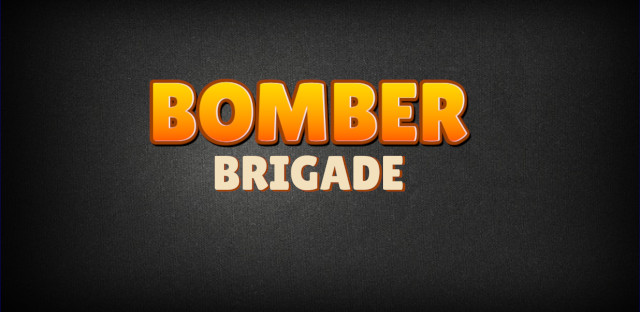
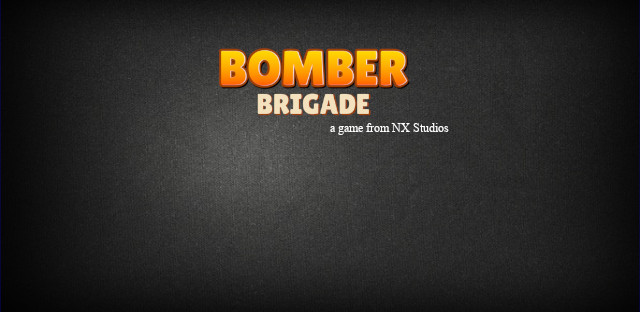
Content

Changed region(s): [[0.2188, 0.1442, 0.75, 0.6346]]

diff --git a/img/email.html b/img/email.html
@@ -1,0 +1,212 @@
+<div dir="ltr">
+  <table id="gmail-mainStructure" style="background-color: #efefef; width: 800px; max-width: 800px; margin: 0px auto; outline: #efefef solid 2px;" border="0" width="800" cellspacing="0" cellpadding="0" align="center">
+    <tbody>
+      <tr>
+        <td style="background: url('BomberBrigade.jpg') 25% 0% / cover no-repeat " align="center" valign="top" width="100%" height="100%">
+          <table style="margin: 0px auto;" border="0" width="100%" cellspacing="0" cellpadding="0" align="center">
+            <tbody>
+              <tr>
+                <td align="center" valign="top">
+                  <table style="min-width: 600px; margin: 0px auto; width: 600px;" border="0" width="600" cellspacing="0" cellpadding="0" align="center">
+                    <tbody>
+                      <tr>
+                        <td align="center" valign="top">
+                          <table style="table-layout: fixed; margin: 0px auto; width: 560px;" border="0" width="560" cellspacing="0" cellpadding="0" align="center">
+                            <tbody>
+                              <tr>
+                                <td style="height: 80px; font-size: 0px; line-height: 0; border-collapse: collapse;" valign="top" height="80">&nbsp;</td>
+                              </tr>
+                              <tr>
+                                <td valign="top">
+                                  <table style="margin: 0px auto; width: 560px;" border="0" width="100%" cellspacing="0" cellpadding="0" align="center">
+                                    <tbody>
+                                      <tr>
+                                        <td style="font-family: 'Open Sans', Arial, Helvetica, sans-serif; font-size: 36px; color: #ffffff; font-weight: 600; text-align: center; word-break: break-word; line-height: 44px; width: 560px;" align="center">
+                                        </td>
+                                      </tr>
+                                    </tbody>
+                                  </table>
+                                </td>
+                              </tr>
+                              <tr>
+                                <td valign="top">&nbsp;</td>
+                              </tr>
+                              <tr>
+                                <td align="center" valign="top">&nbsp;</td>
+                              </tr>
+                              <tr>
+                                <td style="height: 80px; font-size: 0px; line-height: 0; border-collapse: collapse;" valign="top" height="80">&nbsp;</td>
+                              </tr>
+                            </tbody>
+                          </table>
+                        </td>
+                      </tr>
+                    </tbody>
+                  </table>
+                </td>
+              </tr>
+            </tbody>
+          </table>
+        </td>
+      </tr>
+      <tr>
+        <td style="background-color: #ffffff;" align="center" valign="top">
+          <table style="min-width: 600px; margin: 0px auto; width: 600px;" border="0" width="600" cellspacing="0" cellpadding="0" align="center">
+            <tbody>
+              <tr>
+                <td align="center" valign="top">
+                  <table style="table-layout: fixed; margin: 0px auto; width: 560px;" border="0" width="560" cellspacing="0" cellpadding="0" align="center">
+                    <tbody>
+                      <tr style="text-align: justify;">
+                        <td style="height: 40px; font-size: 0px; line-height: 0; border-collapse: collapse;" valign="top" height="40">&nbsp;</td>
+                      </tr>
+                      <tr style="text-align: justify;">
+                        <td valign="top">
+                          <table style="margin: 0px auto;" border="0" width="100%" cellspacing="0" cellpadding="0" align="center">
+                            <tbody>
+                              <tr>
+                                <td style="height: 20px; font-size: 0px; line-height: 0; border-collapse: collapse;" valign="top" height="20">&nbsp;</td>
+                              </tr>
+                            </tbody>
+                          </table>
+                        </td>
+                      </tr>
+                      <tr>
+                        <td valign="top">
+                          <table style="margin: 0px auto;" border="0" width="100%" cellspacing="0" cellpadding="0" align="center">
+                            <tbody>
+                              <tr>
+                                <td style="font-family: 'Open Sans', Arial, Helvetica, sans-serif; font-size: 14px; color: #7d7d7d; text-align: center; word-break: break-word; line-height: 22px;" align="center">
+                                  <p style="text-align: justify;">Hello Martin, 
+                                    <br>
+                                    <span style="font-size: inherit;">
+                                      <br>It's Navin, founder, and CEO of&nbsp; 
+                                      <a href="http://nxstudios.tk/" target="_blank" rel="noopener">NXStudios</a>. I am an independent game developer and I own a game development studio where we build games for the Android platform. We started formally as a studio in early 2019 but I have been working in the game development industry for over 5 years now.&nbsp;
+                                    </span>
+                                  </p>
+                                  <p style="text-align: justify;">I wanted to introduce to you the game, Bomber Brigade. It is a 3D action and a strategy-based platform game that involves the player tackling enemies while trying to save the platform from getting destroyed by bombs. The platform is divided into tiles. The bombs drop on the tiles and wait for a few seconds before exploding and taking away the tile. The player must push away the bomb from the platform before it explodes all this while trying to strategically destroy or avoid other kinds of enemies that harm the player. The main catch here is that each tile is linked to human life and the player must try his best to save as many lives as he can. From time to time, humans provide him with some special temporary powers in the form of pickup items. 
+                                    <br>
+                                  </p>
+                                  <p style="text-align: justify;">
+                                    <span style="font-size: inherit;">The story goes as follows: The user plays as a Bomb Disposal Officer and tries to save multiple planets across the Universe. A group of evil aliens plans to destroy all planets one by one so that they can take over. The user steps into the shoes of Jack, the Bomb disposal officer, tries to foil their evil plans by climbing up multiple levels to eventually fight the aliens in a final fight.</span>&nbsp; 
+                                    <span style="font-size: inherit;">&nbsp;</span>
+                                  </p>
+                                  <p style="text-align: justify;">I have attached various screenshots and game videos along with the actual game apk, in the mail. I'm sure that you will find it worth your time. I await your response regarding your decision to publish it. 
+                                    <br>
+                                    <a href="https://drive.google.com/drive/folders/1kqYg-Qamky0OJmup7IdiY8OIJ1pXevu1?usp=sharing" rel="noopener" target="_blank">Bomber Brigade Screenshot and Videos</a> 
+                                    <br>
+                                  </p>
+                                  <p style="text-align: justify;">
+                                    <span style="font-size: inherit; text-align: center;">Sincerely,</span> 
+                                    <br>Navin Agarwal 
+                                    <br>+91-8861974219
+                                  </p>
+                                </td>
+                              </tr>
+                              <tr>
+                                <td style="height: 20px; font-size: 0px; line-height: 0; border-collapse: collapse;" valign="top" height="20">&nbsp;</td>
+                              </tr>
+                            </tbody>
+                          </table>
+                        </td>
+                      </tr>
+                      <tr>
+                        <td style="height: 20px; font-size: 0px; line-height: 0; border-collapse: collapse;" valign="top" height="20">&nbsp;</td>
+                      </tr>
+                    </tbody>
+                  </table>
+                </td>
+              </tr>
+            </tbody>
+          </table>
+        </td>
+      </tr>
+      <tr>
+        <td style="background: url('NXStudios.jpg') 25% 0% / cover no-repeat" align="center" valign="top">
+          <table style="min-width: 600px; margin: 0px auto; width: 602px; height: 297px;" border="0" width="600" cellspacing="0" cellpadding="0" align="center">
+            <tbody>
+              <tr>
+                <td style="padding-left: 20px; padding-right: 20px; width: 562px;" align="center" valign="top">
+                  <table style="height: 34px; width: 128px; margin-left: auto; margin-right: auto;" border="0" width="240" cellspacing="0" cellpadding="0" align="center">
+                    <tbody>
+                      <tr>
+                        <td style="font-family: 'Open Sans', Arial, Helvetica, sans-serif; font-size: 14px; color: #ffffff; text-align: center; word-break: break-word; line-height: 22px; width: 128px;" align="center">
+                        </td>
+                      </tr>
+                    </tbody>
+                  </table>
+                </td>
+              </tr>
+                          
+              <br/><br/>
+              <br/>
+              <tr>
+                <td style="width: 602px;" valign="top">
+                  <table border="0" width="100%" cellspacing="0" cellpadding="0" align="center">
+                    <tbody>
+                      <tr>
+                        <td valign="middle">
+                          <table style="margin: 0px auto; padding-top: 10px; height: 122px; width: 471px;" border="0" width="481" cellspacing="0" cellpadding="0" align="left">
+                            <tbody>
+                              <tr style="height: 25px;">
+                                <td style="padding-left: 3px; padding-right: 3px; width: 34px; height: 25px;" align="center" valign="middle">
+                                  <a href="https://nxstudios.tk/" border="0" style="font-size: inherit; border-style: none; text-decoration-line: none;">
+                                    <img tyle="max-width: 25px; display: block;" src="globe.png" alt="website" width="25">
+                                  </a>
+                                </td>
+                                <td style="height: 25px; width: 431px;">
+                                  <a style="color: #ffffff !important;" href="https://nxstudios.tk/" target="_blank" rel="noopener">https://nxstudios.tk/
+                                  </a>
+                                </td>
+                              </tr>
+                              <tr style="height: 25px;">
+                                <td style="padding-left: 3px; padding-right: 3px; width: 34px; height: 25px;" align="center" valign="middle">
+                                  <a href="https://www.facebook.com/NXStudiosGames" border="0" style="font-size: inherit; border-style: none; text-decoration-line: none;">
+                                    <img class="gmail-CToWUd" style="max-width: 25px; display: block;" src="https://ci5.googleusercontent.com/proxy/wn_xQlsHL5ufYw1J-IbN-4ECU5AsuVHWz10OMsVlKGGmhoZPkagXFVky_dDdW1nGm_lnbl1o3vMk26HdLaQ-AoQUQOKMzGUfBsNAcIV5oFRY00OcZbETKlg0HD8hztv4H-MrMhB_R5IFqA=s0-d-e1-ft#https://www.cloudHQ.net/system/content/templates/images/set11-social-facebook-white.png" alt="facebook" width="25">
+                                  </a>
+                                </td>
+                                <td style="height: 25px; width: 431px;">
+                                  <a style="color: #ffffff !important;" href="https://www.facebook.com/NXStudiosGames" target="_blank" rel="noopener">https://www.facebook.com/ 
+                                    <wbr>NXStudiosGames
+                                  </a>
+                                </td>
+                              </tr>
+                              <tr style="height: 25px;">
+                                <td style="padding-left: 3px; padding-right: 3px; width: 34px; height: 25px;" align="center" valign="middle">
+                                  <a href="https://www.youtube.com/channel/UCCaukKhxx8LUJx6w6osOtOw" border="0" target="_blank" style="font-size: inherit; border-style: none; text-decoration-line: none;" rel="noopener">
+                                    <img class="gmail-CToWUd" style="max-width: 25px; display: block;" src="https://ci5.googleusercontent.com/proxy/eYINv2F8v8td4etpNtoZmvzzsiLHyddz_U9AQCu-azh0Vgxiwu_LYpZD2e5u1QtqgaiuOfn7E1l3kxOJcYUOmk-sWgkpOBn4qMjLo4seDFexj6L7oL-XwbL1V8OQF1IaWYmjRlGPeWrH=s0-d-e1-ft#https://www.cloudHQ.net/system/content/templates/images/set11-social-youtube-white.png" alt="" width="25">
+                                  </a>
+                                </td>
+                                <td style="height: 25px; width: 431px;">
+                                  <a style="color: #ffffff !important;" href="https://www.youtube.com/channel/UCCaukKhxx8LUJx6w6osOtOw" target="_blank" rel="noopener">https://www.youtube.com/ 
+                                    <wbr>NXStudios
+                                  </a>
+                                </td>
+                              </tr>
+                              <tr style="height: 25px;">
+                                <td style="padding-left: 3px; padding-right: 3px; width: 34px; height: 25px;" align="center" valign="middle">
+                                  <a href="https://www.instagram.com/nxstudiosgames/" border="0" style="font-size: inherit; border-style: none; text-decoration-line: none;">
+                                    <img class="gmail-CToWUd" style="max-width: 25px; display: block;" src="https://ci4.googleusercontent.com/proxy/T5KMSsKYh7R1otbLPclGpWZBlaxcwqfra68tHS9FQbtmZDY1pDPXYXP3rdqxTa8laAG5Eq_7mJjN_aLyYlN0Zk_m4XvcJG26pvjri9noMDbzTc_PtPs7HzXAktMQeGKyh6KpG0mH98KI_0M=s0-d-e1-ft#https://www.cloudHQ.net/system/content/templates/images/set11-social-instagram-white.png" alt="instagram" width="25">
+                                  </a>
+                                </td>
+                                <td style="height: 25px; width: 431px;">
+                                  <a style="color: #ffffff !important;" href="https://www.instagram.com/nxstudiosgames/" target="_blank" rel="noopener">https://www.instagram.com/ 
+                                    <wbr>nxstudiosgames
+                                  </a>
+                                </td>
+                              </tr>
+                            </tbody>
+                          </table>
+                        </td>
+                      </tr>
+                    </tbody>
+                  </table>
+                </td>
+              </tr>
+            </tbody>
+          </table>
+        </td>
+      </tr>
+    </tbody>
+  </table>
+</div>
